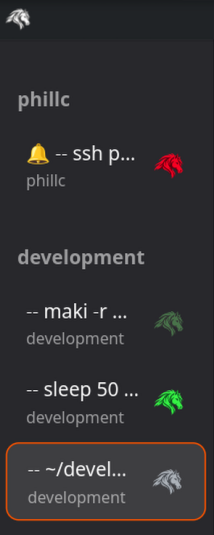
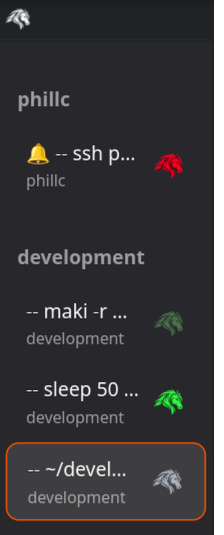
docs(readme): bake the gap into the sidebar image
[ci skip]

diff --git a/README.md b/README.md
@@ -36,7 +36,7 @@ The bugs in this application are all his fault.
 
 ## Status icons
 
-<img src="sidebar.png" alt="The Njuggle sidebar: tabs grouped by repository, the status marks, and the border on the active tab" align="left" width="107" hspace="10">
+<img src="sidebar.png" alt="The Njuggle sidebar: tabs grouped by repository, the status marks, and the border on the active tab" align="left" width="112">
 
 Each tab has its own Njuggle status icon, which is grey by default.
 When a process is running in a tab, this icon changes to green. If
